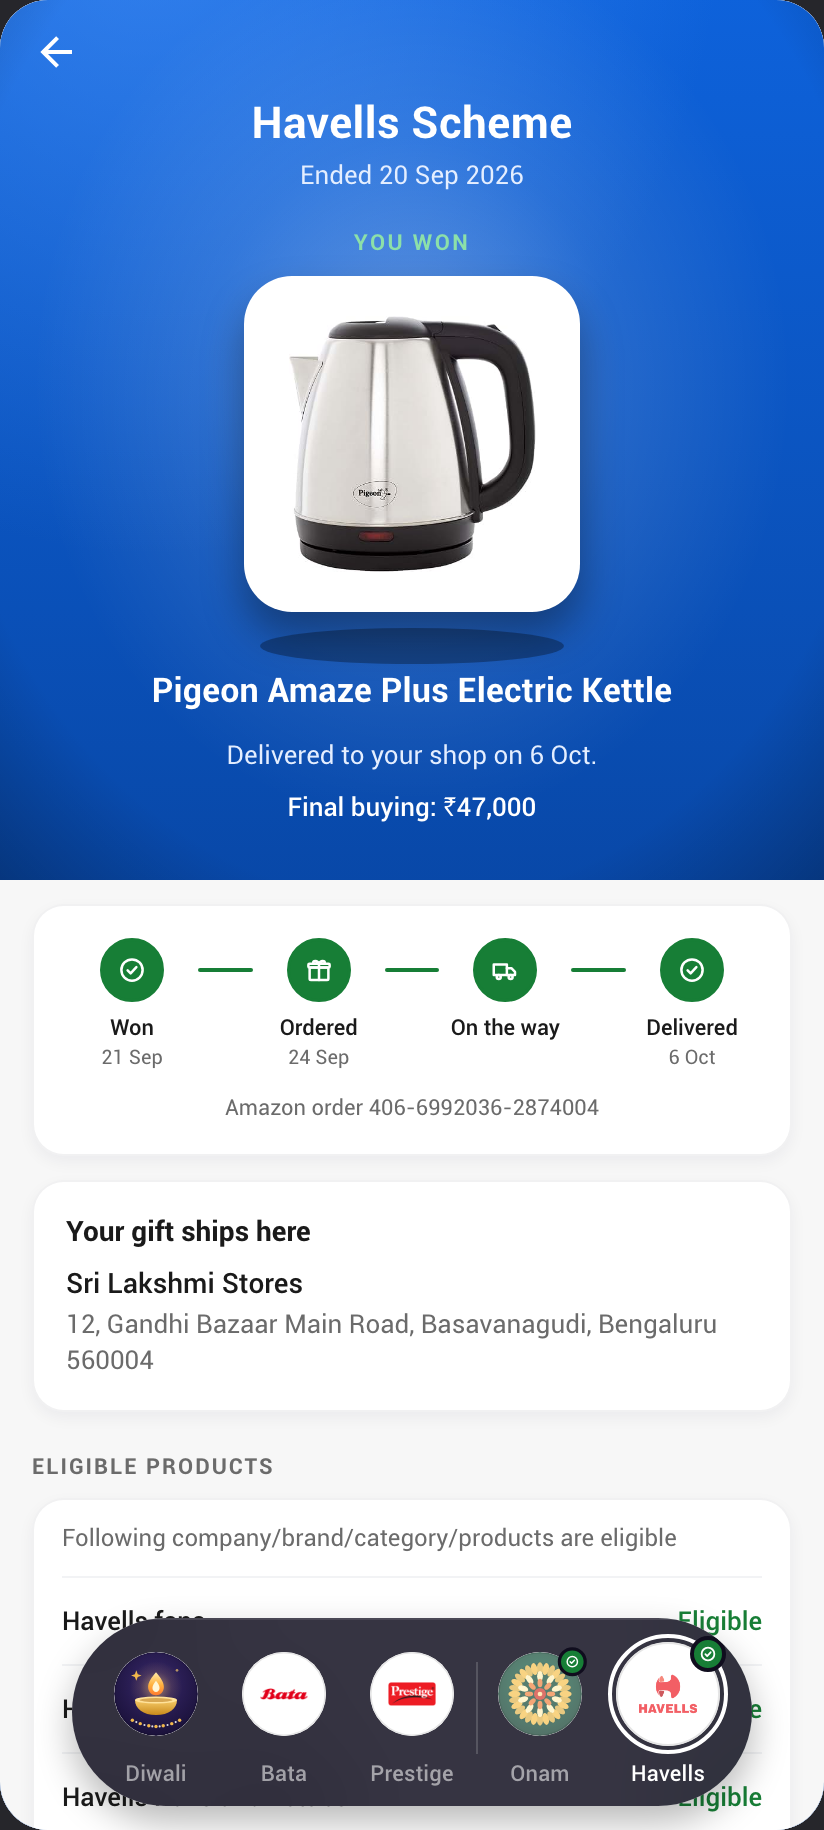
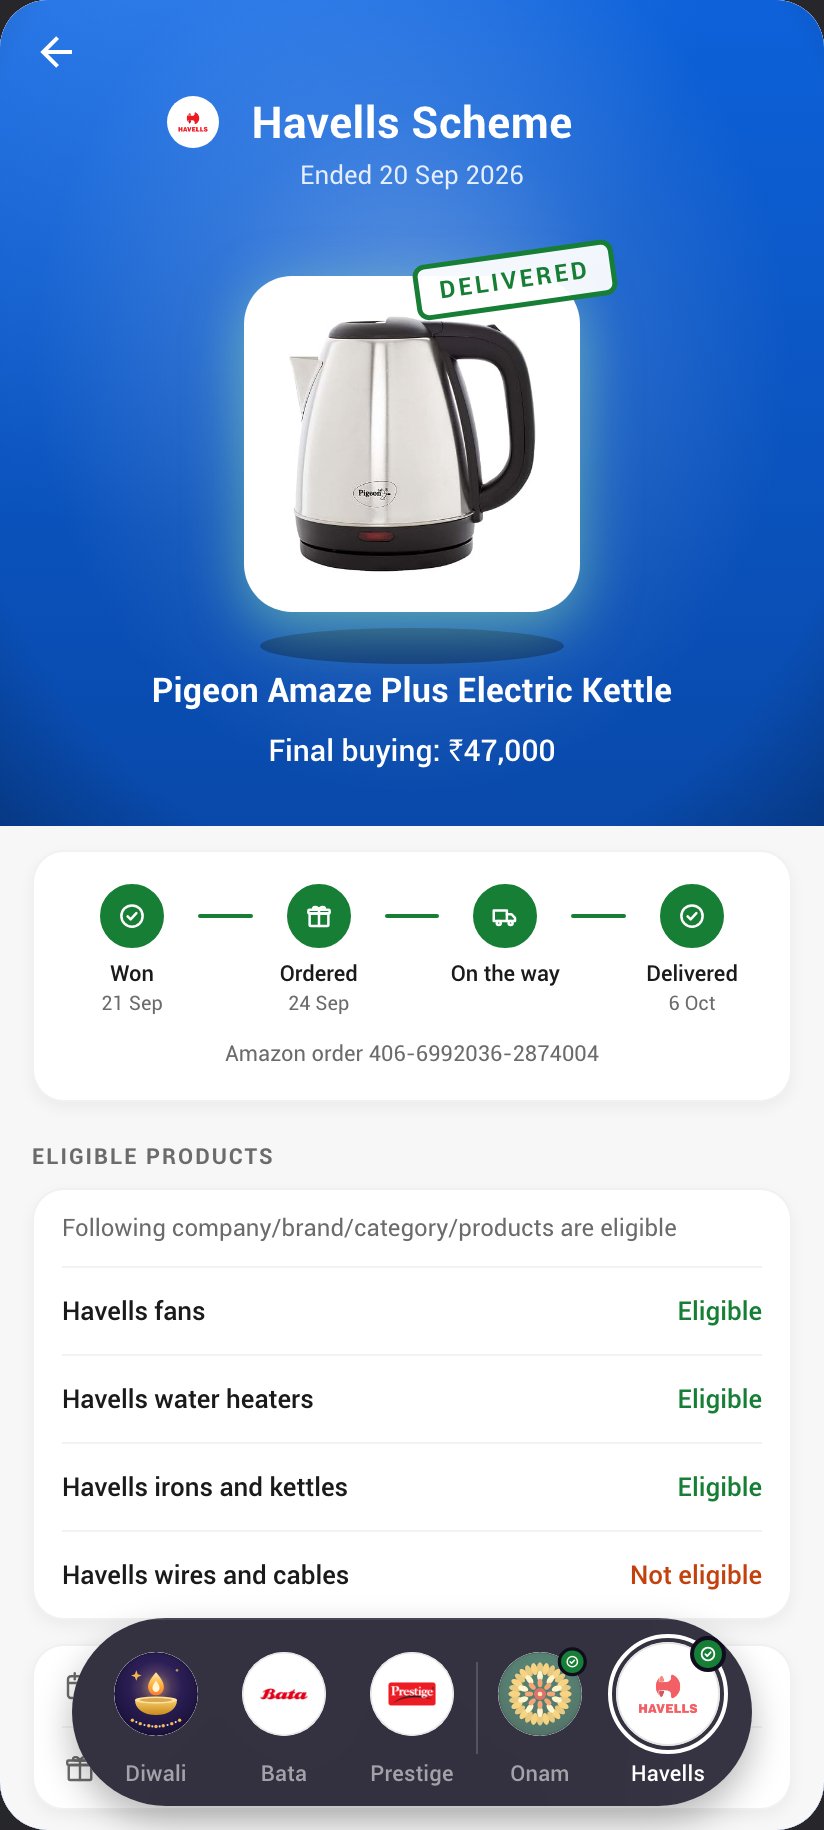
Polish pass: stamped won gifts, brand marks on the stage, target word, balanced numbers, real progressive blur
- Completed schemes: the won gift's tile is stamped (WON / ON THE WAY /
  DELIVERED, settled green on white, rotated 8deg, lands with the tile) and
  glows green; the stage drops the note that repeated the stepper; the
  address card is gone after delivery so a gift row is sliced at the fold.
- Brand schemes wear their mark (26 px) beside the title, where a festive
  scheme wears its motif.
- The bar's right end reads 'Target ₹10L'. Ask 26 / tag 15 / ends 12 /
  final buying 15: the ask leads by a step, not a leap.
- Facts card on every page but missed, with the scheme window (calendar
  glyph added); delivery row only while running.
- Fold: five stacked backdrop blurs masked to slices build the dissolve
  gradually over 72 px; softer paint fade.
- Arc: non-apex veil 40%; the apex label holds to 0.3 of a page.

diff --git a/src/schemes/SchemePage.js b/src/schemes/SchemePage.js
@@ -29,6 +29,7 @@ import { STATE } from '../gifts/state';
 import { themeOf } from '../gifts/themes';
 import { RIMG } from '../rewards/assets';
 import { T } from './copy';
+import SchemeArt from './SchemeArt';
 import { SETTLED } from './motion';
 import { ddMMM, SHOP_ADDRESS } from './registry';
 
@@ -68,6 +69,19 @@ export function CtaButton({ label, bg, fg, glow = false, onPress, containerStyle
         <LinearGradient colors={['rgba(255,255,255,0.30)', 'rgba(255,255,255,0)']} style={styles.ctaSheen} pointerEvents="none" />
         <Text style={[styles.ctaText, { color: fg }]} allowFontScaling={false}>{label}</Text>
       </Pressable>
+    </Animated.View>
+  );
+}
+
+// The stamp on a won gift: pressed onto the tile's corner, it lands with the
+// tile (opacity) and settles from 1.25 to 1, the way a stamp meets paper.
+function Stamp({ text, anim }) {
+  return (
+    <Animated.View
+      pointerEvents="none"
+      style={[styles.stamp, { opacity: anim, transform: [{ rotate: '-8deg' }, { scale: anim.interpolate({ inputRange: [0, 1], outputRange: [1.25, 1] }) }] }]}
+    >
+      <Text style={styles.stampText} allowFontScaling={false}>{text}</Text>
     </Animated.View>
   );
 }
@@ -133,10 +147,12 @@ export default function SchemePage({ scheme, active, first, offset, bottomPad, o
   const heroNote =
     s.state === STATE.SCHEDULED ? t.startsNote(s.startLabel)
     : s.state === STATE.TOP_REACHED ? t.topNote(s.endLabel)
-    : s.state === STATE.ENDED_PENDING ? t.pendingNote
-    : s.state === STATE.GIFT_ORDERED ? t.orderedNote(scheme.deliverBy)
-    : s.state === STATE.DELIVERED ? t.deliveredNote(deliveredLabel)
     : null;
+  // The stepper below carries the delivery story; the stage does not repeat it.
+  const stampText =
+    s.state === STATE.DELIVERED ? t.stampDelivered
+    : s.state === STATE.GIFT_ORDERED ? t.stampOnTheWay
+    : t.stampWon;
 
   // Entrance values. The first page starts everything at 0 and stages it in.
   // Any other page starts its stage settled (1) and its meter empty (0), then
@@ -260,6 +276,11 @@ export default function SchemePage({ scheme, active, first, offset, bottomPad, o
                   <View style={styles.motifHang}>
                     <GiftGlyph kind={th.motif} size={22} color={st.accent} strokeWidth={1.5} />
                   </View>
+                ) : scheme.art?.logo ? (
+                  // A brand scheme wears its mark where a festive scheme wears its motif.
+                  <View style={[styles.motifHang, { top: 0 }]}>
+                    <SchemeArt scheme={scheme} size={26} />
+                  </View>
                 ) : null}
                 <Text style={[styles.h1, { color: st.ink }]} allowFontScaling={false}>{scheme.title}</Text>
               </View>
@@ -299,11 +320,20 @@ export default function SchemePage({ scheme, active, first, offset, bottomPad, o
                     </Animated.View>
                   </>
                 ) : null}
-                <Animated.Text style={[styles.heroLabel, { color: hero.tone === 'won' ? st.good : st.accent, opacity: labelA }]} allowFontScaling={false}>
-                  {hero.label}
-                </Animated.Text>
+                {hero.tone === 'won' ? null : (
+                  <Animated.Text style={[styles.heroLabel, { color: st.accent, opacity: labelA }]} allowFontScaling={false}>
+                    {hero.label}
+                  </Animated.Text>
+                )}
+                <View style={[styles.tileWrap, compact && styles.tileWrapCompact]}>
                 <Animated.View
-                  style={[styles.tile, compact && styles.tileCompact, { opacity: tileA, transform: [{ scale: tileA.interpolate({ inputRange: [0, 1], outputRange: [0.9, 1] }) }] }]}
+                  style={[
+                    styles.tile,
+                    compact && styles.tileCompact,
+                    // A won gift is lit from within: a green glow, the settled colour.
+                    hero.tone === 'won' && { shadowColor: st.good, shadowOpacity: 0.55, shadowRadius: 28, shadowOffset: { width: 0, height: 8 } },
+                    { opacity: tileA, transform: [{ scale: tileA.interpolate({ inputRange: [0, 1], outputRange: [0.9, 1] }) }] },
+                  ]}
                 >
                   {hero.gift.voucher ? (
                     <GiftThumb gift={hero.gift} size={compact ? 112 : 128} />
@@ -313,6 +343,8 @@ export default function SchemePage({ scheme, active, first, offset, bottomPad, o
                     <GiftGlyph kind={hero.gift.icon} size={80} color={st.accentDeep} strokeWidth={1.2} />
                   )}
                 </Animated.View>
+                {hero.tone === 'won' ? <Stamp text={stampText} anim={tileA} /> : null}
+                </View>
               </Animated.View>
               <Animated.Text style={[styles.giftName, { color: st.ink }, rise(nameA, 8), lag]} allowFontScaling={false}>
                 {hero.gift.name}
@@ -371,7 +403,9 @@ export default function SchemePage({ scheme, active, first, offset, bottomPad, o
                   </View>
                   <View style={styles.barEnds}>
                     <Text style={[styles.barEnd, TABULAR, { color: st.sub }]} allowFontScaling={false}>{slab(prevAt)}</Text>
-                    <Text style={[styles.barEnd, TABULAR, { color: st.sub }]} allowFontScaling={false}>{slab(s.next.at)}</Text>
+                    <Text style={[styles.barEnd, TABULAR, { color: st.sub }]} allowFontScaling={false}>
+                      {t.targetWord} <Text style={{ color: st.ink, fontFamily: F.bold }}>{slab(s.next.at)}</Text>
+                    </Text>
                   </View>
 
                   <Animated.View style={rise(amountA, 10)}>
@@ -399,11 +433,11 @@ export default function SchemePage({ scheme, active, first, offset, bottomPad, o
                     </Animated.View>
                   ) : null}
                 </>
-              ) : heroNote ? (
+              ) : heroNote || s.earned ? (
                 <Animated.View style={rise(nameA, 8)}>
-                  <Text style={[styles.heroNote, { color: st.sub }]} allowFontScaling={false}>{heroNote}</Text>
+                  {heroNote ? <Text style={[styles.heroNote, { color: st.sub }]} allowFontScaling={false}>{heroNote}</Text> : null}
                   {s.earned ? (
-                    <Text style={[styles.finalBought, TABULAR, { color: st.ink }]} allowFontScaling={false}>{t.finalBought(money(s.currentValue))}</Text>
+                    <Text style={[styles.finalBought, TABULAR, { color: st.ink }, !heroNote && { marginTop: 10 }]} allowFontScaling={false}>{t.finalBought(money(s.currentValue))}</Text>
                   ) : null}
                 </Animated.View>
               ) : null}
@@ -443,6 +477,7 @@ export default function SchemePage({ scheme, active, first, offset, bottomPad, o
               {s.state !== STATE.ENDED_PENDING ? <Text style={[styles.orderNo, TABULAR]} allowFontScaling={false}>{scheme.orderNo}</Text> : null}
             </View>
 
+            {s.state === STATE.DELIVERED ? null : (
             <View style={styles.card}>
               <Text style={styles.cardTitle} allowFontScaling={false}>{t.shipsHere}</Text>
               <Text style={styles.shopName} allowFontScaling={false}>{SHOP_ADDRESS.shop}</Text>
@@ -467,6 +502,7 @@ export default function SchemePage({ scheme, active, first, offset, bottomPad, o
                 </View>
               )}
             </View>
+            )}
           </>
         ) : null}
 
@@ -549,22 +585,26 @@ export default function SchemePage({ scheme, active, first, offset, bottomPad, o
           </Animated.View>
         ) : null}
 
-        {!s.ended ? (
+        {missed ? null : (
           <View style={styles.facts}>
-            {t.facts(scheme.deliverBy).map(([icon, text], i) => (
+            {t.facts(scheme.deliverBy, `${scheme.startLabel} to ${scheme.endLabel}`, s.ended).map(([icon, text], i) => (
               <View key={icon} style={[styles.factRow, i > 0 && styles.rowDivider]}>
                 <GiftGlyph kind={icon} size={18} color={N.sub} strokeWidth={1.6} />
                 <Text style={styles.factText} allowFontScaling={false}>{text}</Text>
               </View>
             ))}
           </View>
-        ) : null}
+        )}
       </ScrollView>
 
       {edge ? (
         <Animated.View pointerEvents="none" style={[styles.edge, { opacity: edgeOpacity }]}>
-          <View style={styles.edgeBlur} dataSet={{ dissolve: 'true' }} />
-          <LinearGradient colors={['rgba(247,247,247,0)', 'rgba(247,247,247,0.88)', N.bg]} locations={[0, 0.6, 1]} style={StyleSheet.absoluteFill} />
+          {/* Five stacked backdrop blurs, each masked to its own slice, so the blur
+              builds gradually down the band instead of switching on at a line. */}
+          {[0, 1, 2, 3, 4].map((k) => (
+            <View key={k} style={styles.edgeBlur} dataSet={{ dissolve: String(k) }} />
+          ))}
+          <LinearGradient colors={['rgba(247,247,247,0)', 'rgba(247,247,247,0.5)', 'rgba(247,247,247,0.96)']} locations={[0, 0.55, 1]} style={StyleSheet.absoluteFill} />
         </Animated.View>
       ) : null}
 
@@ -622,10 +662,14 @@ const styles = StyleSheet.create({
   sparkleL: { position: 'absolute', left: '20%', top: 64 },
   sparkleR: { position: 'absolute', right: '22%', top: 148 },
   heroLabel: { position: 'absolute', top: 18, fontFamily: F.bold, fontSize: 11, lineHeight: 15, letterSpacing: 1.2 },
+  tileWrap: { marginTop: 16 },
+  tileWrapCompact: { marginTop: 14 },
+  // The stamp: pressed onto the tile's corner, a hair off square, the settled green.
+  stamp: { position: 'absolute', top: -12, right: -18, borderWidth: 2.5, borderRadius: 6, paddingHorizontal: 10, paddingVertical: 4, backgroundColor: 'rgba(255,255,255,0.94)', borderColor: N.green },
+  stampText: { color: N.green, fontFamily: F.bold, fontSize: 12, lineHeight: 15, letterSpacing: 1.6 },
   tile: {
     width: 168,
     height: 168,
-    marginTop: 16,
     borderRadius: 24,
     backgroundColor: N.paper,
     alignItems: 'center',
@@ -636,17 +680,17 @@ const styles = StyleSheet.create({
     shadowRadius: 20,
     shadowOffset: { width: 0, height: 12 },
   },
-  tileCompact: { width: 148, height: 148, marginTop: 14, borderRadius: 22 },
+  tileCompact: { width: 148, height: 148, borderRadius: 22 },
   tileImg: { width: 128, height: 128, borderRadius: 12 },
   tileImgCompact: { width: 112, height: 112 },
   giftName: { marginTop: 2, textAlign: 'center', fontFamily: F.bold, fontSize: 17, lineHeight: 22, paddingHorizontal: 24, letterSpacing: 0.1 },
   heroNote: { marginTop: 12, textAlign: 'center', fontFamily: F.regular, fontSize: 13, lineHeight: 19, paddingHorizontal: 44 },
-  finalBought: { marginTop: 8, textAlign: 'center', fontFamily: F.medium, fontSize: 13, lineHeight: 17 },
+  finalBought: { marginTop: 8, textAlign: 'center', fontFamily: F.medium, fontSize: 15, lineHeight: 19 },
 
-  dTagRow: { height: 34, marginTop: 14 },
+  dTagRow: { height: 38, marginTop: 14 },
   tagWrap: { position: 'absolute', alignItems: 'center' },
-  dTag: { backgroundColor: '#fff', borderRadius: 8, paddingHorizontal: 10, height: 26, justifyContent: 'center' },
-  dTagText: { color: N.ink, fontFamily: F.bold, fontSize: 13, lineHeight: 16 },
+  dTag: { backgroundColor: '#fff', borderRadius: 9, paddingHorizontal: 11, height: 30, justifyContent: 'center' },
+  dTagText: { color: N.ink, fontFamily: F.bold, fontSize: 15, lineHeight: 18 },
   dTagCaret: { width: 9, height: 9, marginTop: -6, backgroundColor: '#fff', transform: [{ rotate: '45deg' }] },
 
   securedWrap: { alignItems: 'center', marginTop: 22 },
@@ -657,10 +701,11 @@ const styles = StyleSheet.create({
   runnerD: { position: 'absolute', bottom: 8 },
   flagD: { position: 'absolute', bottom: 8 },
   barEnds: { marginTop: 6, marginHorizontal: 32, flexDirection: 'row', justifyContent: 'space-between' },
-  barEnd: { fontFamily: F.medium, fontSize: 11, lineHeight: 15 },
+  barEnd: { fontFamily: F.medium, fontSize: 12, lineHeight: 16 },
 
-  bigMore: { marginTop: 12, textAlign: 'center', fontFamily: F.bold, fontSize: 30, lineHeight: 36 },
-  bigMoreWord: { fontFamily: F.medium, fontSize: 17, lineHeight: 36 },
+  // The ask leads, but by a step, not a leap: 26 over the tag's 15 and the ends' 12.
+  bigMore: { marginTop: 12, textAlign: 'center', fontFamily: F.bold, fontSize: 26, lineHeight: 32 },
+  bigMoreWord: { fontFamily: F.medium, fontSize: 16, lineHeight: 32 },
   bigRest: { marginTop: 2, textAlign: 'center', fontFamily: F.medium, fontSize: 14, lineHeight: 19, paddingHorizontal: 24 },
 
   cta: { marginTop: 10, marginHorizontal: 32, height: 52, borderRadius: 26, paddingHorizontal: 24, alignItems: 'center', justifyContent: 'center', overflow: 'hidden' },
@@ -724,6 +769,6 @@ const styles = StyleSheet.create({
 
   confetti: { position: 'absolute', left: 0, right: 0, top: 0, bottom: 0 },
   // The fold as a material: content dissolves into the card over 64 px.
-  edge: { position: 'absolute', left: 0, right: 0, bottom: 0, height: 64 },
+  edge: { position: 'absolute', left: 0, right: 0, bottom: 0, height: 72 },
   edgeBlur: { ...StyleSheet.absoluteFillObject },
 });

diff --git a/src/schemes/ArcDock.js b/src/schemes/ArcDock.js
@@ -71,7 +71,7 @@ function Thumb({ scheme, i, pos, cx, onPress }) {
   const opacity = pos.interpolate({ inputRange: s.input, outputRange: s.op, extrapolate: 'clamp' });
   // The ring and the full-colour art belong to the apex only.
   const focus = pos.interpolate({ inputRange: [i - 0.5, i, i + 0.5], outputRange: [0, 1, 0], extrapolate: 'clamp' });
-  const dimmed = pos.interpolate({ inputRange: [i - 0.5, i, i + 0.5], outputRange: [0.55, 0, 0.55], extrapolate: 'clamp' });
+  const dimmed = pos.interpolate({ inputRange: [i - 0.5, i, i + 0.5], outputRange: [0.4, 0, 0.4], extrapolate: 'clamp' });
   // Press feedback: a spring to 0.96 that the release reverses mid-motion.
   const press = usePressScale(0.96);
 
@@ -106,8 +106,9 @@ export default function ArcDock({ schemes, pos, onSelect, panHandlers, width, bo
       {/* The focused scheme's name and status, cross-fading as the arc turns. */}
       <View pointerEvents="none" style={styles.labels}>
         {schemes.map((sc, i) => {
-          const o = n > 1 ? pos.interpolate({ inputRange: [i - 0.5, i, i + 0.5], outputRange: [0, 1, 0], extrapolate: 'clamp' }) : 1;
-          const rise = n > 1 ? pos.interpolate({ inputRange: [i - 0.5, i, i + 0.5], outputRange: [5, 0, 5], extrapolate: 'clamp' }) : 0;
+          // The label holds until 0.3 of a page, then commits to the neighbour by 0.5.
+          const o = n > 1 ? pos.interpolate({ inputRange: [i - 0.5, i - 0.3, i, i + 0.3, i + 0.5], outputRange: [0, 1, 1, 1, 0], extrapolate: 'clamp' }) : 1;
+          const rise = n > 1 ? pos.interpolate({ inputRange: [i - 0.5, i - 0.3, i, i + 0.3, i + 0.5], outputRange: [5, 0, 0, 0, 5], extrapolate: 'clamp' }) : 0;
           const th = themeOf(sc.theme);
           return (
             <Animated.View key={sc.id} style={[styles.label, { opacity: o, transform: [{ translateY: rise }] }]}>

diff --git a/src/schemes/copy.js b/src/schemes/copy.js
@@ -40,10 +40,15 @@ export const T = {
     confirm: 'Confirm address',
     change: 'Change',
     confirmed: 'Address confirmed',
-    facts: (deliverBy) => [
+    facts: (deliverBy, window, ended) => [
+      ['calendar', `Scheme window: ${window}`],
       ['gift', 'One gift per shop: the highest slab you cross'],
-      ['truck', `Amazon delivers to your shop by ${deliverBy}`],
+      ...(ended ? [] : [['truck', `Amazon delivers to your shop by ${deliverBy}`]]),
     ],
+    targetWord: 'Target',
+    stampWon: 'WON',
+    stampOnTheWay: 'ON THE WAY',
+    stampDelivered: 'DELIVERED',
     running: 'RUNNING',
     completed: 'COMPLETED',
     emptyTitle: 'No schemes yet',
@@ -84,10 +89,15 @@ export const T = {
     confirm: 'पता सही है',
     change: 'बदलें',
     confirmed: 'पता कन्फ़र्म हो गया',
-    facts: (deliverBy) => [
+    facts: (deliverBy, window, ended) => [
+      ['calendar', `स्कीम की अवधि: ${window}`],
       ['gift', '1 दुकान, 1 गिफ़्ट: जो सबसे ऊँचा स्लैब पार करें'],
-      ['truck', `Amazon से डिलीवरी, ${deliverBy} तक`],
+      ...(ended ? [] : [['truck', `Amazon से डिलीवरी, ${deliverBy} तक`]]),
     ],
+    targetWord: 'टारगेट',
+    stampWon: 'जीता',
+    stampOnTheWay: 'रास्ते में',
+    stampDelivered: 'डिलीवर',
     running: 'चल रही',
     completed: 'पूरी हुई',
     emptyTitle: 'अभी कोई स्कीम नहीं',

diff --git a/src/schemes/SchemeDock.js b/src/schemes/SchemeDock.js
@@ -54,8 +54,14 @@ if (Platform.OS === 'web' && typeof document !== 'undefined' && !document.getEle
     '[data-glass]{backdrop-filter:blur(22px) saturate(1.35);-webkit-backdrop-filter:blur(22px) saturate(1.35);}' +
     '[data-noselect]{user-select:none;-webkit-user-select:none;}' +
     '[data-noselect] img{-webkit-user-drag:none;pointer-events:none;}' +
-    '[data-dissolve]{backdrop-filter:blur(8px);-webkit-backdrop-filter:blur(8px);' +
-    'mask-image:linear-gradient(to bottom,rgba(0,0,0,0),rgba(0,0,0,1) 70%);-webkit-mask-image:linear-gradient(to bottom,rgba(0,0,0,0),rgba(0,0,0,1) 70%);}';
+    // Progressive blur: five layers, each blurring a little more and masked to
+    // its own slice of the band, stack into one gradual dissolve.
+    [[0, 1, 0, 30], [1, 1.5, 20, 50], [2, 2.5, 40, 70], [3, 4, 60, 90], [4, 6, 78, 100]]
+      .map(([k, b, from, to]) =>
+        `[data-dissolve="${k}"]{backdrop-filter:blur(${b}px);-webkit-backdrop-filter:blur(${b}px);` +
+        `mask-image:linear-gradient(to bottom,rgba(0,0,0,0) ${from}%,rgba(0,0,0,1) ${to}%);` +
+        `-webkit-mask-image:linear-gradient(to bottom,rgba(0,0,0,0) ${from}%,rgba(0,0,0,1) ${to}%);}`)
+      .join('');
   document.head.appendChild(s);
 }
 

diff --git a/src/gifts/icons.js b/src/gifts/icons.js
@@ -128,6 +128,14 @@ const GLYPHS = {
   sparkle: (s) => (
     <Path {...P} {...s} d="M12 4.5l1.4 4.6 4.6 1.4-4.6 1.4L12 16.5l-1.4-4.6L6 10.5l4.6-1.4L12 4.5z" />
   ),
+  calendar: (s) => (
+    <>
+      <Rect {...P} {...s} x="4" y="5.5" width="16" height="14.5" rx="2" />
+      <Line {...s} x1="4" y1="10" x2="20" y2="10" strokeLinecap="round" />
+      <Line {...s} x1="8.5" y1="3.5" x2="8.5" y2="7.5" strokeLinecap="round" />
+      <Line {...s} x1="15.5" y1="3.5" x2="15.5" y2="7.5" strokeLinecap="round" />
+    </>
+  ),
   truck: (s) => (
     <>
       <Path {...P} {...s} d="M3 7.5h10.5V16H3z" />

diff --git a/docs/SCHEME-DOCK.md b/docs/SCHEME-DOCK.md
@@ -13,6 +13,10 @@ closer match to the reference video.
 The scheme page is a floating card: 14 px side margins, 24 px corners, from 10 px
 below the status bar to the top of the dock zone. Below it the schemes sit on an arc.
 
+Non-apex thumbs on the arc wear a 40 % veil of the night colour (not 55 %), so a
+brand's red still reads as red while the thumb recedes. The name under the apex holds
+until 0.3 of a page and commits to the neighbour by 0.5.
+
 The ground is one cool near-black (`#0B0A14`) with 18 % of the active theme's night
 mixed in, blending as the pager crosses. The card carries the theme; the floor
 recedes (Apple HIG: deference, materials). The earlier ground, the theme's night at
@@ -194,6 +198,40 @@ The sheet's bottom edge must say "more below" without a hint label. Three moves:
 Not done, on purpose: a pinned CTA bar (it stacks about 240 px of chrome above the
 arc and rewrites the page's ending), a chevron or "scroll for details" label, and a
 peek nudge on arrival.
+
+## Completed schemes
+
+A completed scheme with a gift reads as settled before a word is read:
+
+- The won gift's tile carries a stamp on its top-right corner, a hair off square
+  (rotated 8 degrees): WON, ON THE WAY, or DELIVERED, in the settled green on white,
+  2.5 px border. It lands with the tile and settles from 1.25 to 1, the way a stamp
+  meets paper.
+- The tile glows green from within (the theme's `good` colour at 55 %, 28 px).
+- The stage carries no meter, no ask, and no note that repeats the stepper. It shows
+  the gift, the stamp and "Final buying".
+- After delivery the address card is gone; the gift has arrived. The list starts one
+  card earlier, so the fold slices a gift row again.
+- On the arc and in the list, the scheme's art dims and carries the green check.
+
+## Numbers
+
+The ask leads, but by a step, not a leap: the ask is 26 px Bold, the bought-so-far
+tag 15 px Bold, the slab values at the ends 12 px Medium, "Final buying" 15 px
+Medium. The bar's right end reads "Target ₹10L", the word in the muted colour and the
+value in ink, so the domain word "target" sits on the goal.
+
+## Facts
+
+The facts card shows on every page except a missed scheme: the scheme window
+("Scheme window: 1 Oct 2026 to 9 Nov 2026"), the one-gift rule, and, while the
+scheme runs, the delivery date.
+
+## Brand schemes on the stage
+
+A brand scheme wears its mark (26 px, on white) where a festive scheme wears its
+motif, next to the title. The stage keeps the Solv theme; the mark is what tells
+Bata from Prestige at a glance.
 
 ## Gift list
 
